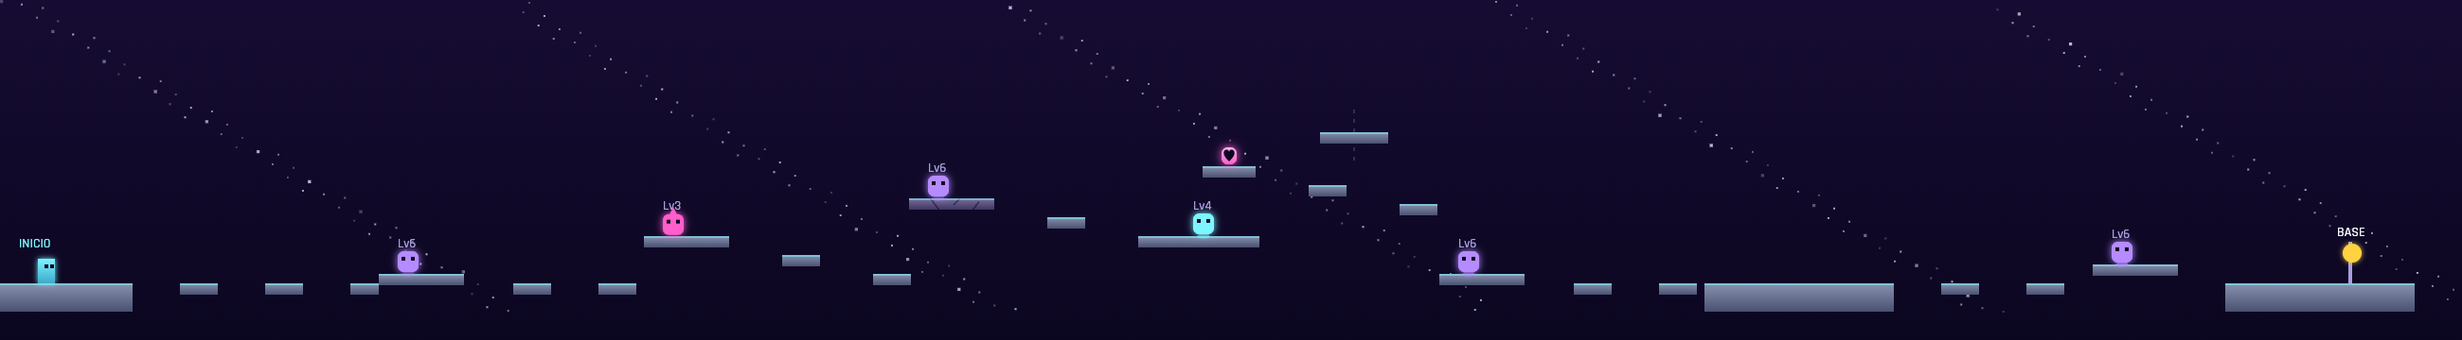
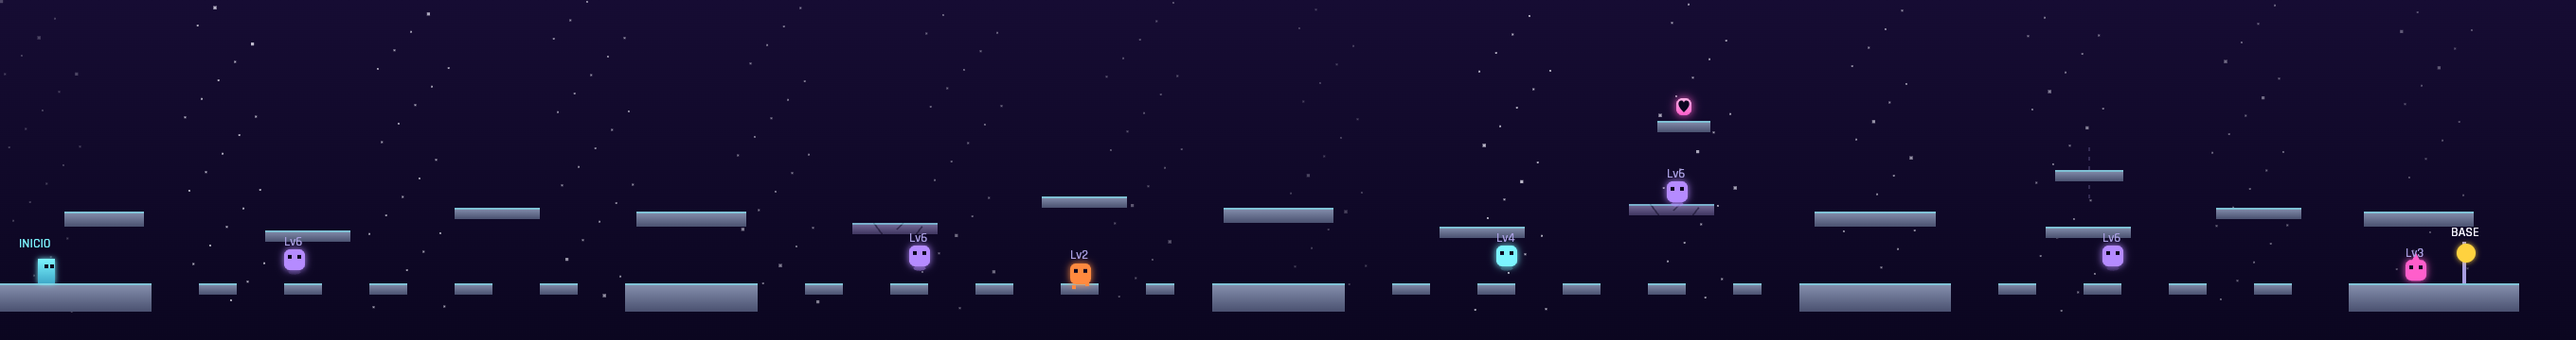
Tormenta de Iones: la tormenta pasa a ser mecánica de presión temporal
El nivel 5 tenía la tormenta solo en el nombre: su identidad era
geometría (huecos largos), jugablemente un nivel más pero más ancho.
Ahora la tormenta es un ciclo global determinista por frames (5s de
calma → 1,5s de aviso → 2s de descarga, ionStorm en levels.js) y
durante la descarga estar al raso cuesta 5 de daño con la misma tregua
de invulnerabilidad de las puertas de energía — presión real, nunca
muerte instantánea. La regla de refugio es emergente: a salvo con
cualquier plataforma sólida encima de la cabeza, así que los techos de
los refugios y las flotantes de la ruta alta dan cobijo sin necesidad
de zonas marcadas en datos. Es el primer nivel del juego con presión
temporal: corres en la calma, te cobijas en la descarga.

El nivel se rehace alrededor de ese reloj: 5 refugios (isla + techo)
separados por 4 carreras cruzables dentro de una ventana de calma —
invariante fijado por dos tests, uno de distancia y otro corriéndolo
con la física real. El ciclo arranca en calma al (re)cargar para no
reaparecer nunca bajo una descarga, y el aviso lleva tinte, cartel,
sonido de carga, resplandor cian bajo los techos y hint de una sola
vez. Ignorar la tormenta sigue siendo viable pagando HP (~2 golpes el
recorrido directo): tiempo o vida, a elegir.

De paso, dos arreglos que destapó el bot de verificación: la
plataforma móvil se muda a la 4ª carrera porque en la 3ª hacía de
escalera involuntaria (flotante → móvil → frágil → secreta, todo con
[…]

diff --git a/__tests__/live.test.js b/__tests__/live.test.js
@@ -841,6 +841,144 @@ describe('Peligros: frágiles, móviles, rayos y cintas (contra el código real)
     });
 });
 
+describe('Tormenta iónica — nivel 5 (contra js/game.js real)', () => {
+    function inStormLevel() {
+        const { game, LEVELS, Player } = loadGame();
+        game.gameStarted = true;
+        game.loadLevel(4); // Tormenta de Iones
+        game.inWorldMap = false; game.inLevel = true; game.combat = null; game.levelCompleting = false;
+        game.enemies.forEach(e => { e.x = -1500; e.initialX = -1500; });
+        game.hintsSeen.add('ion-storm'); // sin diálogo de aviso por medio (se testea aparte)
+        return { game, storm: LEVELS[4].ionStorm, LEVELS, Player };
+    }
+    function standAt(game, x) {
+        game.player.x = x; game.player.y = 137;
+        game.player.vx = 0; game.player.vy = 0; game.player.onGround = true;
+    }
+
+    test('el ciclo calma → aviso → descarga es determinista por frames', () => {
+        const { game, storm } = inStormLevel();
+        game.stormT = 0;
+        expect(game.stormPhase(storm)).toBe('calm');
+        game.stormT = storm.calm;
+        expect(game.stormPhase(storm)).toBe('warn');
+        game.stormT = storm.calm + storm.warn;
+        expect(game.stormPhase(storm)).toBe('strike');
+        game.stormT = storm.calm + storm.warn + storm.strike; // ciclo nuevo
+        expect(game.stormPhase(storm)).toBe('calm');
+    });
+
+    test('en plena descarga, al raso: daño con tregua de invulnerabilidad (no re-golpea cada frame)', () => {
+        const { game, storm } = inStormLevel();
+        standAt(game, 110); // sobre una piedra de la carrera 1, sin ningún techo encima
+        game.stormT = storm.calm + storm.warn; // al borde de la descarga
+        const hp0 = game.player.hp;
+        game.update();
+        expect(game.player.hp).toBe(hp0 - Math.max(1, 5 - game.player.defense));
+        expect(game.playerInvulnerable).toBe(45);
+        const hp1 = game.player.hp;
+        for (let i = 0; i < 20; i++) game.update();
+        expect(game.player.hp).toBe(hp1); // la tregua aguanta: nada de daño por frame
+    });
+
+    test('bajo el techo de un refugio, la descarga entera no hace nada', () => {
+        const { game, storm } = inStormLevel();
+        standAt(game, 350); // refugio B: isla [330,150,70,15] con techo [336,112,58,8]
+        game.stormT = storm.calm + storm.warn;
+        const hp0 = game.player.hp;
+        for (let i = 0; i < storm.strike; i++) game.update();
+        expect(game.player.hp).toBe(hp0);
+    });
+
+    test('en calma no pasa nada aunque estés al raso', () => {
+        const { game } = inStormLevel();
+        standAt(game, 110);
+        game.stormT = 0;
+        const hp0 = game.player.hp;
+        for (let i = 0; i < 60; i++) game.update();
+        expect(game.player.hp).toBe(hp0);
+    });
+
+    test('el primer aviso de tormenta dispara su hint (una sola vez por navegador)', () => {
+        const { game, storm } = inStormLevel();
+        game.hintsSeen.delete('ion-storm');
+        standAt(game, 350);
+        game.stormT = storm.calm - 1; // el próximo update cruza a fase de aviso
+        game.update();
+        expect(game.hintScreen).not.toBeNull();
+        expect(game.hintScreen.text).toMatch(/cubierto/);
+    });
+
+    test('con la física real, cada carrera entre refugios se cruza dentro de una ventana de calma', () => {
+        // No solo distancia en llano (eso lo cubre el test de abajo): un corredor de verdad
+        // salta piedras. Bot mínimo — correr a la derecha y salto simple al borde de cada hueco —
+        // de refugio a refugio, contando frames. Si alguna carrera no cabe en la calma, el nivel
+        // se volvió injusto (te obliga a comerte una descarga sí o sí).
+        const { LEVELS, Player, Platform } = loadGame();
+        const lvl = LEVELS[4];
+        const plats = lvl.platforms.map(pp => new Platform(...pp, lvl.variant));
+        const roofs = lvl.platforms.filter(p => p[3] === 8).sort((a, b) => a[0] - b[0]);
+        const particles = { burst() {} };
+        for (let i = 0; i < roofs.length - 1; i++) {
+            const from = roofs[i], to = roofs[i + 1];
+            const p = new Player(from[0] + from[2] - 12, 137, 'scrap'); // sale del borde del techo i
+            p.onGround = true;
+            let frames = 0;
+            while (p.x + p.w < to[0] + 4 && frames < 1000) {
+                // ¿hay suelo a ras (y≥145) justo delante? si no, toca saltar el hueco
+                const ahead = lvl.platforms.some(q => q[1] >= 145 && p.x + 24 > q[0] && p.x + 14 < q[0] + q[2]);
+                p.update({ ArrowRight: true, Space: p.onGround && !ahead }, plats, particles);
+                frames++;
+                if (p.y > 180) break; // cayó a un hueco: la carrera no se puede correr
+            }
+            expect(p.y).toBeLessThanOrEqual(180);
+            expect(p.x + p.w).toBeGreaterThanOrEqual(to[0] + 4); // llegó bajo el siguiente techo
+            expect(frames).toBeLessThan(lvl.ionStorm.calm);      // ...dentro de una sola calma
+        }
+    });
+
+    test('regla de diseño: el secreto del nivel 5 queda fuera del alcance del salto simple desde la frágil', () => {
+        // Regresión de un agujero real: con la secreta a y=72, el salto simple desde la flotante
+        // frágil (ápice ~79 + ventana de aterrizaje de 10) llegaba, y la cadena flotante → móvil →
+        // frágil → secreta abría el "secreto de doble salto" sin gastar Energía.
+        const { LEVELS, Player } = inStormLevel();
+        const lvl = LEVELS[4];
+        const fragile = lvl.platforms.find(p => p[4] === 'fragile' && p[0] === 860);
+        const secret = lvl.platforms.find(p => p[0] === 875 && p[2] === 28);
+        expect(fragile).toBeDefined();
+        expect(secret).toBeDefined();
+        // Altura del salto simple, medida con la física real (mismo método que makeMaxReach):
+        const p = new Player(0, 0, 'scrap');
+        p.onGround = true;
+        let jumped = false, minY = 0;
+        for (let f = 0; f < 60; f++) {
+            p.update({ Space: !jumped }, [], { burst() {} });
+            jumped = true;
+            minY = Math.min(minY, p.y);
+        }
+        const simpleJumpRise = -minY; // ~27 con la física actual
+        const rise = fragile[1] - secret[1]; // cuánto hay que subir hasta la secreta
+        expect(rise).toBeGreaterThan(simpleJumpRise + 10); // +10: la ventana de snap de aterrizaje
+    });
+
+    test('regla de diseño: ningún tramo abierto entre techos supera lo andable en una ventana de calma', () => {
+        const { LEVELS, Player } = inStormLevel();
+        const lvl = LEVELS[4];
+        const speed = new Player(0, 0, 'kes').speed;
+        const calmDistance = lvl.ionStorm.calm * speed;
+        // Los techos de los refugios son las únicas plataformas con h=8 del nivel.
+        const roofs = lvl.platforms.filter(p => p[3] === 8).sort((a, b) => a[0] - b[0]);
+        expect(roofs.length).toBeGreaterThanOrEqual(4);
+        for (let i = 1; i < roofs.length; i++) {
+            const gap = roofs[i][0] - (roofs[i - 1][0] + roofs[i - 1][2]);
+            expect(gap).toBeLessThan(calmDistance);
+        }
+        // y la meta queda al alcance de una calma desde el último refugio
+        const last = roofs[roofs.length - 1];
+        expect(lvl.goal).toBeLessThanOrEqual(last[0] + last[2] + calmDistance);
+    });
+});
+
 describe('Túnel de Escape — cuenta atrás del scroll forzado (contra js/game.js real)', () => {
     function inTunnel() {
         const { game } = loadGame();

diff --git a/js/game.js b/js/game.js
@@ -640,6 +640,26 @@ class Game {
         this.player.energy = this.player.maxEnergy; this.cameraX = 0;
         this.autoScrollX = 0;
         this.forcedScrollDelay = level.forcedScroll ? level.forcedScroll.startDelay : 0;
+        // Tormenta iónica (ver ionStorm en levels.js): el reloj arranca en calma SIEMPRE —
+        // también al reaparecer tras morir, para que nunca respawnees bajo una descarga.
+        this.stormT = 0;
+    }
+
+    // Fase del ciclo de la tormenta iónica según this.stormT: calma (se puede correr) → aviso
+    // (tinte y sonido: busca techo) → descarga (estar al raso duele). Frames, no tiempo real:
+    // determinista en cualquier máquina, como el resto de peligros con ciclo.
+    stormPhase(storm) {
+        const c = this.stormT % (storm.calm + storm.warn + storm.strike);
+        if (c < storm.calm) return 'calm';
+        if (c < storm.calm + storm.warn) return 'warn';
+        return 'strike';
+    }
+    // Regla de refugio: a salvo si hay CUALQUIER plataforma sólida encima de la cabeza ("bajo
+    // techo"). Emergente a propósito — sin zonas marcadas aparte: el propio level design (islas
+    // con techo, flotantes de la ruta alta) es lo que da o niega cobijo.
+    playerSheltered() {
+        return this.platforms.some(p => p.solid && p.y + p.h <= this.player.y
+            && p.x < this.player.x + this.player.w && p.x + p.w > this.player.x);
     }
 
     // Piloto actual: una chapa pequeña y discreta en el mapa (no una fila de iconos permanente).
@@ -1268,6 +1288,28 @@ class Game {
                 }
             }
 
+            // Tormenta iónica: avanza el ciclo y, en plena descarga, golpea a quien esté al
+            // raso — mismo patrón de golpe+tregua que las puertas de energía. El combate y los
+            // diálogos congelan update() antes de llegar aquí, así que la tormenta no corre
+            // mientras lees un aviso ni durante un duelo.
+            if (level.ionStorm) {
+                const prevPhase = this.stormPhase(level.ionStorm);
+                this.stormT++;
+                const phase = this.stormPhase(level.ionStorm);
+                if (phase === 'warn' && prevPhase === 'calm') {
+                    if (window.SFX) SFX.bossCharge();
+                    this.showHint('ion-storm', 'La tormenta va a descargar: ponte a cubierto BAJO una plataforma antes de que caiga, o corre al siguiente refugio.');
+                }
+                if (phase === 'strike' && this.playerInvulnerable === 0 && !this.playerSheltered()) {
+                    this.player.takeDamage(5);
+                    this.playerInvulnerable = 45;
+                    this.shake = Math.max(this.shake, 5);
+                    this.particles.burst(this.player.x + this.player.w / 2, this.player.y, PALETTE.accent3, 12, { speed: 2, life: 20, size: 2.5 });
+                    if (window.SFX) SFX.zap();
+                    if (this.player.hp <= 0) { this.loseLife(); return; }
+                }
+            }
+
             for (const cap of this.capsules) {
                 if (cap.collected) continue;
                 cap.update();
@@ -1484,6 +1526,53 @@ class Game {
                     ctx.fillText(secs > 0 ? String(secs) : '¡CORRE!', GAME_WIDTH / 2, GAME_HEIGHT / 2);
                     ctx.font = '10px "Rajdhani", sans-serif'; ctx.fillStyle = PALETTE.dim;
                     ctx.fillText('EL NÚCLEO VA A COLAPSAR', GAME_WIDTH / 2, GAME_HEIGHT / 2 + 18);
+                    ctx.textAlign = 'left';
+                }
+            }
+
+            // Tormenta iónica: capa visual del ciclo (la lógica de daño vive en update()).
+            // Aviso: tinte ámbar pulsante + cartel. Descarga: tinte violeta + rayos verticales
+            // (visual puro: Math.random, no RNG). En ambas fases, un resplandor cian bajo cada
+            // plataforma elevada señala dónde hay techo — la regla de refugio, dibujada.
+            // Con reduceEffects: tintes fijos, sin pulso ni rayos (nada que parpadee).
+            if (level.ionStorm) {
+                const phase = this.stormPhase(level.ionStorm);
+                if (phase !== 'calm') {
+                    for (const p of this.platforms) {
+                        if (!p.solid || p.y >= 150) continue; // solo lo elevado da techo útil
+                        const sx = p.x - this.cameraX;
+                        if (sx > GAME_WIDTH || sx + p.w < 0) continue;
+                        const shelterGrad = ctx.createLinearGradient(0, p.y + p.h, 0, p.y + p.h + 22);
+                        shelterGrad.addColorStop(0, 'rgba(124,245,255,0.16)');
+                        shelterGrad.addColorStop(1, 'rgba(124,245,255,0)');
+                        ctx.fillStyle = shelterGrad;
+                        ctx.fillRect(sx, p.y + p.h, p.w, 22);
+                    }
+                    const pulse = this.reduceEffects ? 0.7 : 0.55 + Math.sin(Date.now() * 0.02) * 0.45;
+                    ctx.textAlign = 'center';
+                    ctx.font = 'bold 8px "Rajdhani", sans-serif';
+                    if (phase === 'warn') {
+                        ctx.fillStyle = `rgba(255,210,63,${0.05 + 0.06 * pulse})`;
+                        ctx.fillRect(0, 0, GAME_WIDTH, GAME_HEIGHT);
+                        ctx.fillStyle = `rgba(255,210,63,${0.6 + pulse * 0.4})`;
+                        ctx.fillText('⚠ TORMENTA INMINENTE', GAME_WIDTH / 2, 28);
+                    } else {
+                        ctx.fillStyle = `rgba(181,139,255,${this.reduceEffects ? 0.12 : 0.06 + 0.08 * pulse})`;
+                        ctx.fillRect(0, 0, GAME_WIDTH, GAME_HEIGHT);
+                        if (!this.reduceEffects) {
+                            ctx.save();
+                            ctx.strokeStyle = 'rgba(124,245,255,0.7)'; ctx.lineWidth = 1;
+                            for (let i = 0; i < 3; i++) {
+                                if (Math.random() < 0.3) {
+                                    const bx = Math.random() * GAME_WIDTH;
+                                    ctx.beginPath(); ctx.moveTo(bx, 20); ctx.lineTo(bx + (Math.random() - 0.5) * 10, 150); ctx.stroke();
+                                }
+                            }
+                            ctx.restore();
+                        }
+                        ctx.fillStyle = 'rgba(200,170,255,0.95)';
+                        ctx.fillText('⚡ DESCARGA — A CUBIERTO', GAME_WIDTH / 2, 28);
+                    }
                     ctx.textAlign = 'left';
                 }
             }

diff --git a/js/levels.js b/js/levels.js
@@ -115,28 +115,51 @@ const LEVELS = [
     },
     {
         name: 'Tormenta de Iones', world: 2, variant: 'metal',
+        // La tormenta es MECÁNICA, no ambientación: ciclo global de frames (calma 5s → aviso
+        // 1,5s → descarga 2s, ver la lógica en Game.update) — durante la descarga, estar al
+        // raso duele; estar BAJO cualquier plataforma sólida te protege. El nivel se estructura
+        // alrededor de ese reloj: 5 refugios (isla + techo) separados por carreras abiertas que
+        // se cruzan dentro de una ventana de calma. Primer nivel con presión temporal del juego.
+        ionStorm: { calm: 300, warn: 90, strike: 120 },
         platforms: [
-            [0, 150, 70, 15], [200, 145, 45, 6], [340, 125, 45, 6],
-            [480, 105, 45, 6, 'fragile'], [620, 125, 45, 6], [760, 145, 45, 6], [900, 150, 100, 15],
-            [635, 88, 28, 6], // plataforma secreta: solo se alcanza con doble salto desde [620,125,45,6]
-            // Camino bajo: este nivel es EL ejemplo de "doble salto obligatorio" del diseño original
-            // (huecos de 95-130u, muy por encima de lo que llega un salto simple), así que necesita
-            // varias piedras seguidas en vez de una sola — el desvío más largo de los 9 niveles.
-            [95, 150, 20, 6], [140, 150, 20, 6], [185, 150, 15, 6],
-            [271, 150, 20, 6], [316, 150, 20, 6],
-            [413, 135, 20, 6], [461, 145, 20, 6],
-            [553, 115, 20, 6], [601, 125, 19, 6],
-            [691, 98, 20, 6], [739, 108, 20, 6],
-            [831, 150, 20, 6], [876, 150, 20, 6],
-            // Tramo final añadido al alargar el nivel: mismo estilo del nivel (plataforma alta
-            // + piedras de paso bajas para el salto simple).
-            [1025, 150, 20, 6], [1070, 150, 20, 6],
-            [1105, 140, 45, 6], [1175, 150, 100, 15]
+            // Refugio A (salida). El techo empieza en x=34 a propósito: el spawn (x=20) cae al
+            // suelo del refugio, no encima del techo — y el test BFS encuentra el suelo como
+            // plataforma de salida, no el techo.
+            [0, 150, 80, 15], [34, 112, 42, 8],
+            // Carrera 1 (80→330): piedras de paso llanas (huecos ≤25, salto simple) + ruta alta.
+            [105, 150, 20, 6], [150, 150, 20, 6], [195, 150, 20, 6], [240, 150, 20, 6], [285, 150, 20, 6],
+            [140, 122, 45, 6], [240, 110, 45, 6],
+            // Refugio B.
+            [330, 150, 70, 15], [336, 112, 58, 8],
+            // Carrera 2 (400→640).
+            [425, 150, 20, 6], [470, 150, 20, 6], [515, 150, 20, 6], [560, 150, 20, 6], [605, 150, 15, 6],
+            [450, 118, 45, 6, 'fragile'], [550, 104, 45, 6],
+            // Refugio C.
+            [640, 150, 70, 15], [646, 110, 58, 8],
+            // Carrera 3 (710→950), la del secreto: la plataforma altísima [875,64] con la ♥
+            // exige doble salto cronometrado DOS veces (flotante → frágil → secreta). A y=64 y
+            // no 72 a propósito: a 72, el salto simple desde la frágil (ápice ~79) llegaba por
+            // la ventana de aterrizaje y el "secreto" se abría sin habilidad aérea.
+            [735, 150, 20, 6], [780, 150, 20, 6], [825, 150, 20, 6], [870, 150, 20, 6], [915, 150, 15, 6],
+            [760, 120, 45, 6], [860, 108, 45, 6, 'fragile'],
+            [875, 64, 28, 6],
+            // Refugio D.
+            [950, 150, 80, 15], [958, 112, 64, 8],
+            // Carrera 4 (1030→1240).
+            [1055, 150, 20, 6], [1100, 150, 20, 6], [1145, 150, 20, 6], [1190, 150, 20, 6],
+            [1080, 120, 45, 6], [1170, 110, 45, 6],
+            // Refugio E: la isla de la meta.
+            [1240, 150, 90, 15], [1248, 112, 58, 8]
         ],
-        movingPlatforms: [[697, 70, 36, 6, 12, 0.025]],
-        enemies: [[210, 133, 'ionwisp', 65], [350, 113, 'spiker'], [490, 93, 'ionwisp', 70], [630, 113, 'hoverbot', 60], [770, 133, 'ionwisp', 65], [1115, 128, 'ionwisp', 60]],
-        capsules: [[645, 78]],
-        goal: 1240
+        // La móvil, en la carrera 4 y LEJOS del secreto a propósito: colocada en la carrera 3
+        // (su primera versión, x=815) hacía de escalera involuntaria — flotante → móvil →
+        // frágil → secreta, todo con salto simple — y el secreto dejaba de serlo.
+        movingPlatforms: [[1085, 90, 36, 6, 12, 0.025]],
+        // Espectros iónicos patrullando las carreras (la fauna de la tormenta), reptante en las
+        // piedras, hoverbot en la carrera del secreto y erizo con rango corto guardando la meta.
+        enemies: [[150, 132, 'ionwisp', 60], [480, 130, 'ionwisp', 65], [565, 139, 'crawler'], [790, 130, 'hoverbot', 55], [880, 96, 'ionwisp', 50], [1110, 130, 'ionwisp', 65], [1270, 138, 'spiker', 20]],
+        capsules: [[885, 52]],
+        goal: 1300
     },
     {
         name: 'Núcleo del Centinela', world: 2, variant: 'metal',

diff --git a/DESIGN.md b/DESIGN.md
@@ -113,7 +113,7 @@ Esto crea una decisión constante que no existía en el original: *¿gasto energ
 | | 2 | Grietas de Hielo | **Hielo resbaladizo** (§2.20): inercia + set piece de salto con carrerilla; primeros huecos que premian el doble salto |
 | | 3 | Nido de la Reina Larva | Jefe: Reina Larva |
 | 2 · Luna Ferrosa | 4 | Chatarral Magnético | Enemigos voladores, plataformas más separadas |
-| | 5 | Tormenta de Iones | Huecos largos, uso obligatorio del doble salto |
+| | 5 | Tormenta de Iones | **Tormenta iónica** (§2.21): presión temporal por ciclo de refugios; ruta alta con habilidad aérea |
 | | 6 | Núcleo del Centinela | Jefe: Centinela de Núcleo |
 | 3 · Estación Colapsada | 7 | Muelle de Carga | Introduce la zona 3, enemigos mixtos |
 | | 8 | Túnel de Escape | **Scroll forzado** — ver §2.6 |
@@ -296,7 +296,7 @@ Antes, tocar a un enemigo cortaba a la pantalla de duelo en el mismo frame — f
 
 ### 2.19 Peligros del terreno: rampa de dificultad por mundos
 
-Hasta aquí la dificultad crecía solo por stats de enemigos y anchura de huecos. Estos cuatro peligros hacen que el propio terreno escale: el Mundo 1 solo tiene el hielo del sector 2 (§2.20 — más herramienta que peligro, y sin reloj: el pool del Reto Diario, sectores 1-2, sigue determinista), el 2 introduce dos, el 3 otros dos, y el 4 los combina todos.
+Hasta aquí la dificultad crecía solo por stats de enemigos y anchura de huecos. Estos peligros hacen que el propio terreno escale: el Mundo 1 solo tiene el hielo del sector 2 (§2.20 — más herramienta que peligro, y sin reloj: el pool del Reto Diario, sectores 1-2, sigue determinista), el 2 introduce tres (frágiles, móviles y la tormenta iónica del sector 5, §2.21), el 3 otros dos, y el 4 los combina.
 
 - **Plataformas frágiles** (5º elemento `'fragile'` en `platforms`): al pisarlas arranca una cuenta atrás de 50 frames (tiemblan; con `reduceEffects`, parpadean en alfa en vez de temblar) y desaparecen... pero **reaparecen a los 180 frames**. Reaparecer es la decisión clave: un nivel nunca queda bloqueado sin salida, así que pueden estar en el camino obligatorio y el test BFS puede contarlas como suelo.
 - **Plataformas móviles** (`MovingPlatform`, array `movingPlatforms` aparte): senoide vertical sobre su Y base. El motor ya "lleva" al jugador gratis (gravedad + snap de aterrizaje cada frame), con la condición de que su velocidad vertical máxima (`amplitud × omega`) quede por debajo de la gravedad (0.32) o el snap lo pierde. Van en un array que el **BFS no cuenta a propósito**: son atajos/ruta alta, el camino obligatorio funciona sin ellas — nunca dependes de cazar una plataforma en movimiento.
@@ -318,3 +318,13 @@ Grietas de Hielo (sector 2) era "un nivel normal con estética helada": el varia
 3. Fallar el salto no es muerte ni softlock: caes a la red, pierdes el premio del primer intento, y desde la meseta final (también hielo) se puede reintentar el islote con carrerilla hacia atrás — castigo de tiempo, no de vidas.
 
 Es la primera vez que un "peligro" del terreno es a la vez la herramienta que abre un premio — el hielo enseña su propio dominio, igual que el nivel 5 entrena el doble salto que su cápsula exige. Aviso contextual de una sola vez (`showHint('ice-slide')`, mismo patrón que el de Scrap) al pisar hielo por primera vez, porque la inercia no se anuncia sola hasta que ya te ha tirado a un hueco.
+
+### 2.21 Tormenta iónica: el primer nivel con presión temporal
+
+Tormenta de Iones (sector 5) tenía la tormenta solo en el nombre: su identidad era geometría ("EL nivel de huecos largos"), jugablemente idéntico a cualquier otro pero más ancho. La revisión convierte la tormenta en un **ciclo global de presión temporal** (`ionStorm: { calm: 300, warn: 90, strike: 120 }` en `levels.js`, lógica en `Game.update`/`Game.stormPhase`): 5s de calma → 1,5s de aviso → 2s de descarga, y vuelta a empezar. Durante la descarga, estar al raso cuesta 5 de daño con tregua de invulnerabilidad de 45 frames — el mismo patrón golpe+tregua de las puertas de energía: presión real (hasta ~3 golpes por descarga), nunca muerte instantánea.
+
+- **La regla del techo** (`Game.playerSheltered`): estás a salvo si hay cualquier plataforma sólida encima de la cabeza. Emergente a propósito, sin zonas marcadas en datos: el propio level design da o niega cobijo, así que los refugios (isla + techo) y las flotantes de la ruta alta cumplen doble función — el techo del refugio es también plataforma alta pisable, y una flotante cualquiera es paraguas de emergencia para quien va por el camino bajo. La contrapartida elegante: estar DE PIE sobre un techo durante la descarga te deja al raso.
+- **El nivel es el reloj hecho geometría**: 5 refugios separados por 4 carreras de ~210-250, cruzables dentro de una ventana de calma (300f × 1.55 ≈ 465 en llano — margen para saltos y titubeos). Un test fija ese invariante (ningún tramo entre techos supera lo andable en una calma) para que el nivel no pueda crecer hasta volverse injusto sin que un test avise.
+- **El ciclo arranca en calma al (re)cargar el nivel** (`stormT = 0` en `loadLevel`): nunca reapareces bajo una descarga — morir ya cuesta una vida, no debe costar además el primer golpe del respawn. Y como el combate y los diálogos congelan `update()`, la tormenta no corre mientras lees un aviso ni durante un duelo.
+- **Legibilidad antes que sorpresa**: fase de aviso con tinte ámbar + cartel + sonido de carga (reutiliza `SFX.bossCharge`), resplandor cian bajo cada plataforma elevada durante aviso/descarga (la regla del techo, dibujada), y aviso contextual de una sola vez (`showHint('ion-storm')`) en el primer aviso. La primera descarga puede pillarte igual — pero informado, no emboscado. Con `reduceEffects`, tintes fijos sin pulso ni rayos.
+- Frames y no tiempo real, como todos los peligros con ciclo: determinista en cualquier máquina (el nivel 5 no está en el pool del Reto Diario, pero la regla se mantiene por coherencia).

diff --git a/GUIA.md b/GUIA.md
@@ -80,6 +80,7 @@ El Mundo 1 estrena el terreno con un solo giro (el hielo del nivel 2 — que ade
 | **Hielo resbaladizo** (suelo azul hielo) | Mundo 1 (nivel 2) | Todo el suelo del nivel tiene inercia: acelera con carrerilla hasta **superar tu velocidad normal** (1.55 → 2.6), frenas y giras despacio, y al soltar la dirección sigues deslizándote (~25u hasta pararte). **El impulso se conserva al saltar**: un salto con carrerilla llega a ~68u en llano frente a los ~42 del salto normal | Es el único "peligro" que también es un regalo: usa la carrerilla para los dos saltos largos del tramo final (el del islote de la ♥ y el salto final a la BASE). El peligro real es frenar tarde junto a un borde o un enemigo — suelta la dirección con antelación o pulsa la contraria |
 | **Plataforma frágil** (agrietada) | Mundo 2 (nivel 4) | Al pisarla tiembla y se desmorona a los ~0,8s. **Reaparece a los 3s** — nunca te deja encerrado | No te pares encima: cruza de una pasada. Si cae, espera a que reaparezca |
 | **Plataforma móvil** (raíl punteado) | Mundo 2 (nivel 4) | Sube y baja en ciclo constante. Te lleva encima sin resbalar | Son atajos de ruta alta — el camino obligatorio nunca depende de ellas |
+| **Tormenta iónica** (ciclo de cielo) | Mundo 2 (nivel 5) | Ciclo global de 8,5s: **5s de calma** → **1,5s de aviso** (tinte ámbar, «⚠ TORMENTA INMINENTE») → **2s de descarga** (tinte violeta y rayos). Durante la descarga, estar **al raso** hace 5 de daño con tregua de invulnerabilidad (~hasta 3 golpes si aguantas fuera la descarga entera) | La regla del techo: estás a salvo con **cualquier plataforma sólida encima de la cabeza** — el resplandor cian bajo las plataformas te marca dónde. Corre de refugio en refugio durante la calma; si el aviso te pilla a medias, métete bajo la flotante más cercana o paga el peaje en HP |
 | **Puerta de energía** (columna vertical entre emisores) | Mundo 3 (nivel 7) | Bloquea el paso a ras de suelo con ciclo fijo de 2,5s: 1,5s apagada → 0,25s de aviso (chisporroteo) → 0,75s activa. Activa hace **4 de daño** y te empuja hacia atrás, con tregua de invulnerabilidad | Tres opciones: **esperar** el ciclo (el chisporroteo es tu semáforo), **saltarla por arriba** con habilidad aérea (40 de alto: el salto simple no llega, el doble salto/vuelo/dash sí — la Energía compra tiempo), o **atravesarla pagando** los 4 de daño y aprovechando la tregua. Las puertas de un mismo nivel van desfasadas |
 | **Cinta magnética** (chevrones) | Mundo 3 (nivel 9) | Te arrastra ~30% de tu velocidad en la dirección de los chevrones — siempre en contra | Camina sin pararte (avanzas igual, más despacio) y no te detengas cerca de un borde |
 
@@ -157,8 +158,8 @@ Debut de hoverbots (voladores) y magnetitas (DEF alta) — y de dos peligros nue
 
 ![Mapa del nivel 5](guia/nivel-05.png)
 
-EL nivel de huecos largos: la ruta alta pide habilidad aérea de un extremo a otro; la baja es el desvío de piedras más largo del juego. Espectros iónicos patrullando los huecos. El islote central de la ruta alta es **frágil**, y hay una **móvil** como atajo del tramo 620→760.
-- **♥ Cápsula**: plataforma secreta sobre el cuarto islote alto — **doble salto cronometrado**.
+El primer nivel con **presión temporal**: la tormenta iónica descarga en ciclo (ver Peligros) y el nivel es una cadena de **5 refugios** (isla + techo) separados por carreras abiertas — corre durante la calma, cobíjate en la descarga. La ruta alta de flotantes sigue pidiendo habilidad aérea (y las propias flotantes dan techo de emergencia a quien va por abajo); el camino bajo son piedras de paso llanas. Espectros iónicos patrullan las carreras, un reptante vigila las piedras y un erizo guarda la isla de la meta.
+- **♥ Cápsula**: plataforma altísima sobre la flotante frágil de la 3ª carrera — **doble salto cronometrado dos veces** (flotante → frágil → secreta), con un espectro rondando, la frágil desmoronándose y la tormenta metiendo prisa. La móvil de la 4ª carrera es un atajo de ruta alta normal, no lleva al secreto.
 
 ### Nivel 6 · Núcleo del Centinela (Luna Ferrosa) — JEFE
 

diff --git a/README.md b/README.md
@@ -51,7 +51,7 @@ Todos los niveles se pueden completar con cualquier piloto (verificado por un te
 | | 2 | Grietas de Hielo | **Hielo resbaladizo**: carrerilla con inercia y salto largo del set piece; secreto de vuelo de Bolt |
 | | 3 | Nido de la Reina Larva | **Jefe: Reina Larva** — se regenera cada 3 turnos; hueco de dash de Shade |
 | 2 · Luna Ferrosa | 4 | Chatarral Magnético | Enemigos voladores; **debutan las plataformas frágiles y las móviles** |
-| | 5 | Tormenta de Iones | Huecos largos, la ruta alta exige habilidad aérea |
+| | 5 | Tormenta de Iones | **Tormenta iónica con presión temporal**: corre en la calma, cobíjate bajo techo en la descarga |
 | | 6 | Núcleo del Centinela | **Jefe: Centinela** — carga un turno y golpea el doble (ventana para Defender) |
 | 3 · Estación Colapsada | 7 | Muelle de Carga | **Debutan las puertas de energía** (columnas cíclicas que bloquean el paso); despierta el núcleo |
 | | 8 | Túnel de Escape | **Scroll forzado**: tras 5s de cuenta atrás, un muro de energía avanza solo — con islotes frágiles bajo presión |
